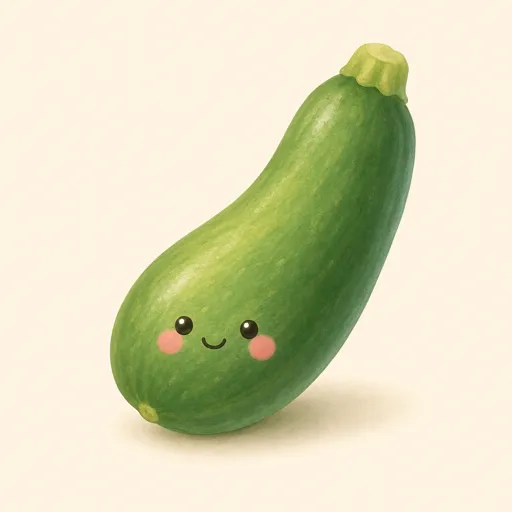
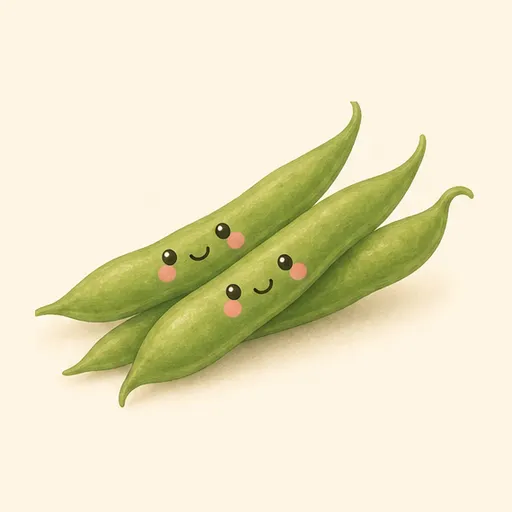
Le haricot est un haricot, le navet un navet, le concombre un concombre
Une planche 2×2 sur GPT Image 2, 37 crédits, avec l'accord de Jean.
Les trois images fausses sont remplacées : haricot.webp et
concombre.webp montraient une courgette, navet.webp était le même
dessin que radis.webp.

La quatrième case a servi à un second essai du haricot vert, le sujet
le plus dur — une gousse plate se confond vite avec une courgette, et
c'est celui qui tombait dans la capture de boutique. C'est le bouquet
de trois gousses qui a été retenu.

Mesuré au passage, et la fiche le disait mal : 42 crédits n'est pas
une constante. gpt-image-2 en image-to-image qualité moyenne coûte
37 en 2k et 57 en 4k. openart_model_cost fait foi, pas la table du
README.

La liste de dette de images_distinctes_test est vide : la paire la
plus proche est maintenant haricot_beurre et salsifis à 7,21, deux
sujets pâles et allongés légitimement voisins. Le test refuse toujours
toute paire sous 7.

Versions détourées refaites aussi, sinon recipe_player_test tombe.

1 126 tests verts.

Changed region(s): [[0.0625, 0.0625, 0.9375, 0.9062]]

diff --git a/test/images_distinctes_test.dart b/test/images_distinctes_test.dart
@@ -38,20 +38,14 @@ void main() {
   /// ⚠ Ce n'est pas une liste d'exceptions tolérées : c'est une dette
   /// datée. Chaque paire ici est une image à refaire, et la refaire
   /// coûte des crédits OpenArt — à demander à Jean avant de dépenser
-  /// (règle permanente). Le test existe pour qu'une **quatrième** ne
+  /// (règle permanente).
+  ///
+  /// **Elle est vide depuis le 03/11/2026** : les trois images fausses
+  /// (`haricot` et `concombre` qui montraient une courgette, `navet`
+  /// qui montrait un radis) ont été refaites en une planche 2×2,
+  /// 37 crédits. Le test existe maintenant pour qu'une quatrième ne
   /// s'ajoute pas sans qu'on le voie.
-  const dette = <String, String>{
-    'navet|radis':
-        'navet.webp est un deuxième dessin du radis — un navet est '
-            'blanc et violet, pas rouge. À refaire (03/11/2026).',
-    'concombre|haricot':
-        'haricot.webp montre une courgette. À refaire (03/11/2026).',
-    'courgette|haricot':
-        'haricot.webp montre une courgette. À refaire (03/11/2026).',
-    'concombre|courgette':
-        'concombre.webp est un troisième rendu de la même courgette. '
-            'À trancher avec les deux autres (03/11/2026).',
-  };
+  const dette = <String, String>{};
 
   Future<List<int>> vignette(String chemin) async {
     final octets = await File(chemin).readAsBytes();
@@ -111,15 +105,13 @@ void main() {
     // Une paire qui ne correspond plus à rien, c'est une dette qu'on
     // croit avoir et qui n'existe plus — ou une faute de frappe.
     final ids = <String>{for (final v in vegetablesBase) v.id};
-    for (final cle in <String>[
-      'navet|radis',
-      'concombre|haricot',
-      'courgette|haricot',
-      'concombre|courgette',
-    ]) {
+    for (final cle in dette.keys) {
       for (final id in cle.split('|')) {
         expect(ids.contains(id), isTrue, reason: '« $id » n\'existe pas.');
       }
+      expect(dette[cle]!.length, greaterThan(20),
+          reason: '$cle : dis ce qu\'il faut faire, pas seulement '
+              'qu\'il y a un doublon.');
     }
   });
 }

diff --git a/CLAUDE.md b/CLAUDE.md
@@ -1033,9 +1033,10 @@ identifiant (badges, légumes, accessoires) sont exclus par leur nom.
 `import` depuis le 31/10, mais du code natif dans chaque build) et
 `cupertino_icons`, qui venait du gabarit Flutter et n'a jamais servi.
 
-23. **Trois images du catalogue montrent le mauvais légume
-    (03/11/2026)** — trouvées en garnissant une installation pour les
-    captures des boutiques, pas en lisant le code.
+23. ~~**Trois images du catalogue montrent le mauvais légume**~~ — ✅
+    **FAIT le 03/11/2026, une planche 2×2, 37 crédits, accord de
+    Jean.** Trouvées en garnissant une installation pour les captures
+    des boutiques, pas en lisant le code.
 
     | Fichier | Ce qu'il montre | Ce qu'il devrait montrer |
     | --- | --- | --- |
@@ -1050,9 +1051,10 @@ identifiant (badges, légumes, accessoires) sont exclus par leur nom.
     badge du 31/10 : le fichier existe, il raconte autre chose.
 
     `test/images_distinctes_test.dart` compare les 130 images deux à
-    deux et refuse une **quatrième** paire. Les trois connues y sont
-    inscrites comme une **dette datée**, pas comme une exception
-    tolérée.
+    deux. Sa liste de dette est **vide** depuis la correction : la
+    paire la plus proche est maintenant `haricot_beurre` et
+    `salsifis` à 7,21 — deux sujets pâles et allongés, légitimement
+    voisins. Le test refuse toute paire sous 7.
 
     ⚠ **Et une empreinte en noir et blanc ne marche pas** : ces
     images sont toutes « un objet centré sur fond crème », donc elles
@@ -1063,9 +1065,19 @@ identifiant (badges, légumes, accessoires) sont exclus par leur nom.
     légitimement proche — panais et salsifis, deux racines pâles — est
     à 7,6.
 
-    **Les refaire coûte des crédits OpenArt** : à demander à Jean
-    avant de dépenser (règle permanente). Garder les noms de
-    fichiers : `assets/images/vegetables/<id>.webp`.
+    **Ce que la correction a coûté, mesuré** : une planche 2×2 en
+    image-to-image sur GPT Image 2, 1:1, 2k, qualité moyenne —
+    **37 crédits**, une seule génération. Trois images séparées en
+    auraient coûté 126. La quatrième case a servi à un second essai du
+    haricot vert, le sujet le plus dur : une gousse plate se confond
+    vite avec une courgette, et c'est précisément celui qui tombait
+    dans la capture de boutique.
+
+    ⚠ **Un légume repeint demande sa version détourée** :
+    `python3 tool/detoure_legumes.py haricot navet concombre`, sinon
+    `recipe_player_test` tombe. rembg n'est pas sur le système — venv
+    jetable, et le modèle `isnet-general-use` pèse 179 Mo au premier
+    lancement.
 
 ## 📐 L'iPad : les grilles prennent la largeur (03/11/2026)
 

diff --git a/assets/images/vegetables_kawaii/README.md b/assets/images/vegetables_kawaii/README.md
@@ -62,6 +62,17 @@ auraient coûté **200**.
 | Planche de 6 | 6,7 crédits | ≈ 1 200 |
 | **Planche de 20** | **2,1 crédits** | **≈ 380** |
 
+⚠ **Le prix dépend de la résolution, et 42 n'est pas une constante.**
+Mesuré le 03/11/2026 sur `gpt-image-2` en image-to-image, qualité
+moyenne : **37 crédits en 2k**, 57 en 4k. Demander le prix exact avec
+`openart_model_cost` avant d'annoncer un chiffre — c'est lui qui fait
+foi, pas cette table.
+
+**Une planche de 4 en 2k suffit pour corriger quelques icônes** :
+2048 × 2048 demandés donnent des cellules largement au-dessus des
+512 px finaux (la génération du 03/11 est sortie en 1360 × 1360, soit
+des cellules de 680 — encore confortable).
+
 La planche de 20 est la bonne : grille 5×4 en `aspectRatio: "5:4"` et
 `resolutionTier: "4k"`, ce qui donne 2560×2048 — des cellules de
 512×512 pile, la taille finale des icônes. Elle met deux à trois
